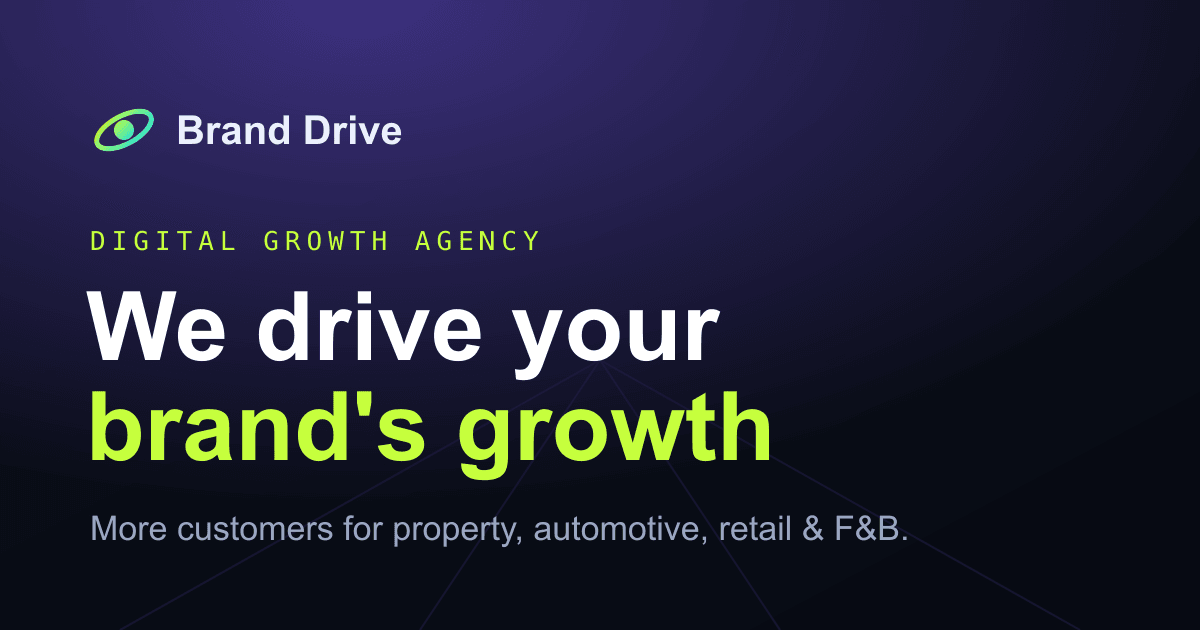
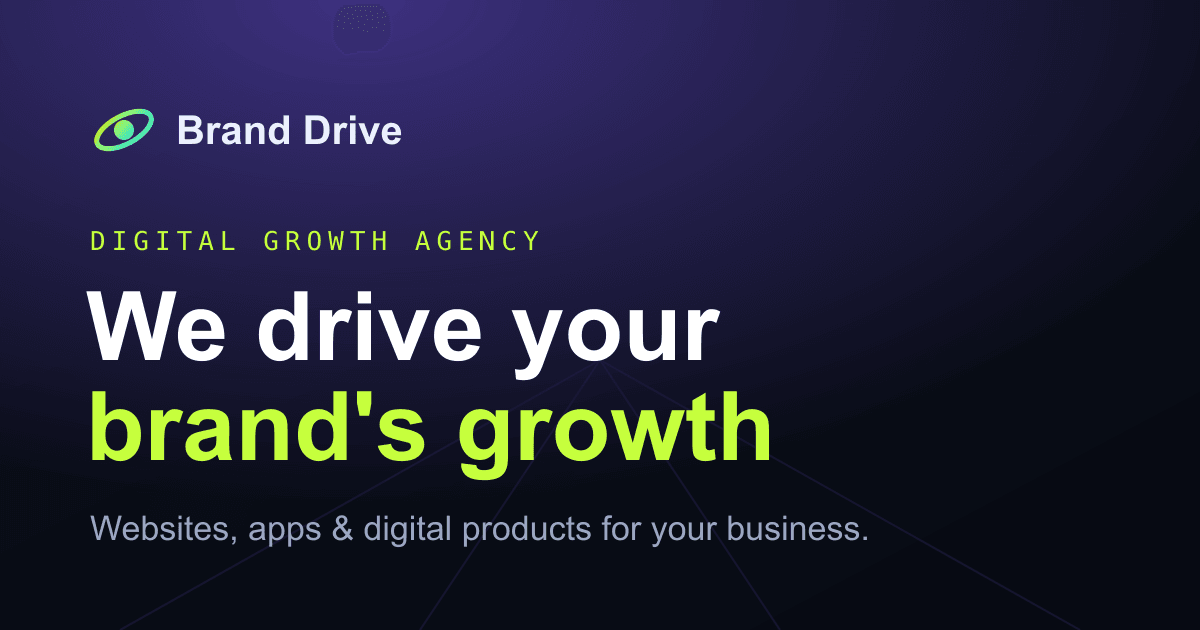
content: expand industries, honest trust page, real contact, no over-claiming
- Industries: added Education, Startup & Tech, Hospitality & Travel, Logistics
  (now 8; new icons book/rocket/plane/truck).
- Trust (compliance) page: removed over-claims (Google/Meta Partner, PCI/ISO/
  SOC2 style certs). Now honest working practices only — secure development,
  data protection (aligned, not certified), full client ownership, uptime &
  backups, transparent communication, confidentiality & NDA.
- Removed fabricated metrics: home stats -> honest commitments (100% ownership,
  fixed pricing, 1:1 comms, fast delivery); about stats -> verifiable facts
  (founded 2024, 6 core services, 8 focus industries, client-owned).
- Contact: [email redacted], [phone redacted], Bandung, Indonesia.
- Reframed about/story/values, terms & privacy (project not campaign/marketing),
  hero eyebrow (Web & Product Studio), site description, and OG share image.
- EN + ID kept in full key parity; updated CLAUDE.md.

Changed region(s): [[0.0617, 0.8143, 0.7708, 0.8746], [0.0925, 0.181, 0.1233, 0.2111]]

diff --git a/app/components/home/IndustriesGrid.vue b/app/components/home/IndustriesGrid.vue
@@ -57,7 +57,19 @@ const industries = contentService.getIndustries()
     --card-accent: #7c5cff;
   }
   :deep(.card):nth-child(4) {
+    --card-accent: #ff6b6b;
+  }
+  :deep(.card):nth-child(5) {
     --card-accent: #ffcf5c;
+  }
+  :deep(.card):nth-child(6) {
+    --card-accent: #4ad3ff;
+  }
+  :deep(.card):nth-child(7) {
+    --card-accent: #ff8a3d;
+  }
+  :deep(.card):nth-child(8) {
+    --card-accent: #3ddc84;
   }
 }
 

diff --git a/app/config/navigation.config.ts b/app/config/navigation.config.ts
@@ -17,10 +17,10 @@ export const footerLegalNav: readonly NavItem[] = [
 ] as const
 
 export const complianceItems: readonly ComplianceItem[] = [
-  { id: 'dataprotection', icon: 'lock' },
-  { id: 'googlepartner', icon: 'check' },
-  { id: 'metapartner', icon: 'check' },
-  { id: 'brandsafety', icon: 'shield' },
-  { id: 'transparency', icon: 'chart' },
+  { id: 'security', icon: 'shield' },
+  { id: 'dataprotection', icon: 'globe' },
+  { id: 'ownership', icon: 'check' },
+  { id: 'uptime', icon: 'bolt' },
+  { id: 'transparency', icon: 'chat' },
   { id: 'confidentiality', icon: 'lock' },
 ] as const

diff --git a/app/components/home/StatsBand.vue b/app/components/home/StatsBand.vue
@@ -1,11 +1,12 @@
 <script setup lang="ts">
 const { t } = useI18n()
 
+// Honest commitments, not fabricated metrics — no over-claiming.
 const stats = [
-  { value: '500+', labelKey: 'home.stats.clients' },
-  { value: '3.5x', labelKey: 'home.stats.roi' },
-  { value: '1M+', labelKey: 'home.stats.leads' },
-  { value: '12+', labelKey: 'home.stats.industries' },
+  { value: '100%', labelKey: 'home.stats.ownership' },
+  { value: 'Fixed', labelKey: 'home.stats.pricing' },
+  { value: '1:1', labelKey: 'home.stats.comms' },
+  { value: 'Fast', labelKey: 'home.stats.delivery' },
 ]
 </script>
 

diff --git a/app/pages/about.vue b/app/pages/about.vue
@@ -13,11 +13,12 @@ const values = [
   { icon: 'check', titleKey: 'about.values.craftTitle', bodyKey: 'about.values.craftBody' },
 ]
 
+// Honest, verifiable facts only — no inflated numbers.
 const stats = [
   { value: '2024', labelKey: 'about.stats.founded' },
-  { value: '50+', labelKey: 'about.stats.team' },
-  { value: '12+', labelKey: 'about.stats.markets' },
-  { value: '$8M+', labelKey: 'about.stats.processed' },
+  { value: '6', labelKey: 'about.stats.services' },
+  { value: '8', labelKey: 'about.stats.industries' },
+  { value: '100%', labelKey: 'about.stats.ownership' },
 ]
 </script>
 

diff --git a/app/config/brand.config.ts b/app/config/brand.config.ts
@@ -16,9 +16,9 @@ export const brandConfig = {
   accent: '#c6ff3d',
   accentAlt: '#7c5cff',
   /** Contact endpoints (overridable via runtimeConfig / env). */
-  email: '[email redacted]',
-  supportEmail: '[email redacted]',
-  phone: '[phone redacted]',
+  email: '[email redacted]',
+  supportEmail: '[email redacted]',
+  phone: '[phone redacted]',
   addressKey: 'contact.info.addressValue',
 } as const
 

diff --git a/app/components/base/BaseIcon.vue b/app/components/base/BaseIcon.vue
@@ -45,6 +45,10 @@ const ICONS: Record<string, string> = {
   code: '<path d="M9 8l-4 4 4 4M15 8l4 4-4 4"/>',
   layers: '<path d="M12 3 3 8l9 5 9-5-9-5z"/><path d="M3 13l9 5 9-5"/>',
   gear: '<circle cx="12" cy="12" r="3.2"/><path d="M12 2.5v3M12 18.5v3M2.5 12h3M18.5 12h3M5.2 5.2l2.1 2.1M16.7 16.7l2.1 2.1M18.8 5.2l-2.1 2.1M7.3 16.7l-2.1 2.1"/>',
+  book: '<path d="M12 6c-1.8-1.2-4-1.6-6-1.6-1 0-2 .1-3 .4v13c1-.3 2-.4 3-.4 2 0 4.2.4 6 1.6 1.8-1.2 4-1.6 6-1.6 1 0 2 .1 3 .4v-13c-1-.3-2-.4-3-.4-2 0-4.2.4-6 1.6z"/><path d="M12 6v13"/>',
+  rocket: '<path d="M12 3c3 1.6 4.5 4.6 4.5 8.5L14 15h-4l-2.5-3.5C7.5 7.6 9 4.6 12 3z"/><circle cx="12" cy="9" r="1.3"/><path d="M9.5 15c-1.5.5-2.5 2-2.5 4 1.5 0 3-.7 3.5-2M14.5 15c1.5.5 2.5 2 2.5 4-1.5 0-3-.7-3.5-2"/>',
+  plane: '<path d="M21 3 3 10l6 3 3 6z"/><path d="M21 3 11 14"/>',
+  truck: '<path d="M2 6h11v10H2z"/><path d="M13 9h4l3 3v4h-7z"/><circle cx="6.5" cy="18" r="1.6"/><circle cx="17" cy="18" r="1.6"/>',
   x: '<path d="M18 3h3l-7 8 8 10h-6l-5-6-5 6H3l8-9L3 3h6l4 5z"/>',
   linkedin:
     '<path d="M6 9v9H3V9zM4.5 3.5a1.6 1.6 0 1 1 0 3.2 1.6 1.6 0 0 1 0-3.2zM9 9h3v1.3c.5-.9 1.6-1.6 3-1.6 2.5 0 4 1.6 4 4.7V18h-3v-4.2c0-1.3-.5-2.1-1.7-2.1-1 0-1.6.7-1.8 1.4-.1.2-.2.6-.2.9V18H9z"/>',

diff --git a/app/config/industries.config.ts b/app/config/industries.config.ts
@@ -9,4 +9,8 @@ export const industriesConfig: readonly Industry[] = [
   { id: 'automotive', icon: 'car' },
   { id: 'retail', icon: 'cart' },
   { id: 'services', icon: 'heart' },
+  { id: 'education', icon: 'book' },
+  { id: 'startup', icon: 'rocket' },
+  { id: 'hospitality', icon: 'plane' },
+  { id: 'logistics', icon: 'truck' },
 ] as const

diff --git a/nuxt.config.ts b/nuxt.config.ts
@@ -47,7 +47,7 @@ export default defineNuxtConfig({
     url: process.env.NUXT_PUBLIC_SITE_URL || 'https://brand-drive.vercel.app',
     name: 'Brand Drive',
     description:
-      'Brand Drive — agensi pertumbuhan digital yang membantu pemilik bisnis mendatangkan lebih banyak pelanggan.',
+      'Brand Drive — studio web & produk digital: website, aplikasi, dan produk digital untuk pertumbuhan bisnis Anda.',
     defaultLocale: 'id',
   },
 
@@ -78,7 +78,7 @@ export default defineNuxtConfig({
   runtimeConfig: {
     public: {
       siteUrl: process.env.NUXT_PUBLIC_SITE_URL || 'https://brand-drive.vercel.app',
-      contactEmail: process.env.NUXT_PUBLIC_CONTACT_EMAIL || '[email redacted]',
+      contactEmail: process.env.NUXT_PUBLIC_CONTACT_EMAIL || '[email redacted]',
     },
   },
 

diff --git a/CLAUDE.md b/CLAUDE.md
@@ -17,7 +17,9 @@ easy maintenance.
 Content model: the world billboards = **services** (`sections.config.ts` — web
 dev (incl. e-commerce), UI/UX, SEO, automation, branding, analytics; in a ring);
 the homepage also has an **industries** block (`industries.config.ts`); the
-compliance page is framed as **trust** (data protection, platform partnerships).
+"Trust" page states honest working practices only — security, data protection,
+full client ownership, uptime/backups, transparency, confidentiality — NO
+certification/partner claims (avoid over-claiming). Contact: Bandung, Indonesia.
 
 ## Stack (verified versions)
 